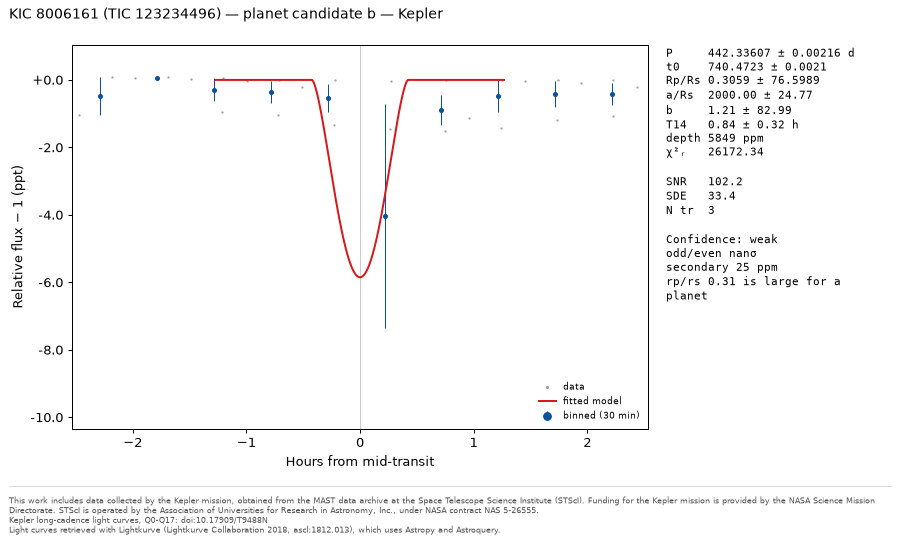
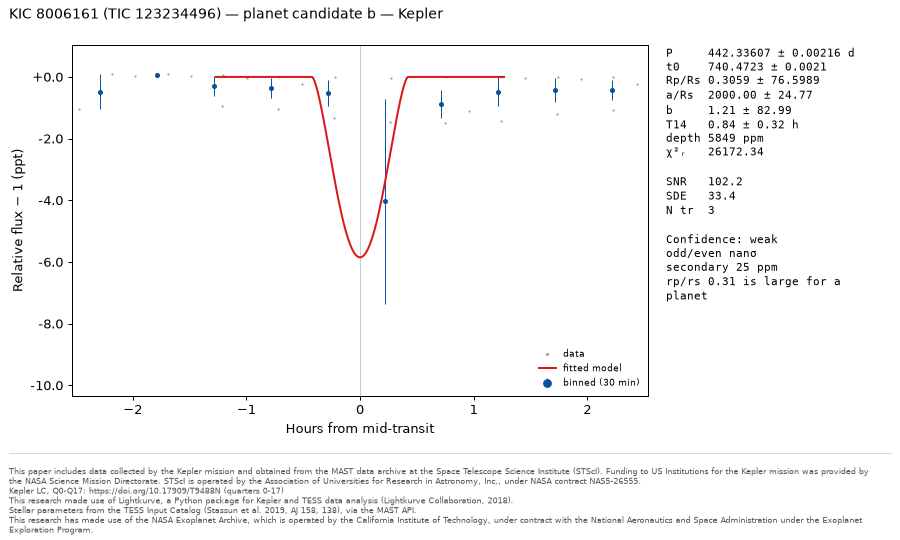
Republish the validation report with the current data credits
Reran the live validation over all sectors. The report now carries the MAST mission wording, https://doi.org links with sector ranges, and the TIC and Exoplanet Archive credits. Results are unchanged: 11/11 recovered, 1 spurious, 4 duo-transits. Retook the validation screenshot and corrected TIC_CREDIT's location in docs/CREDITS.md.

diff --git a/docs/validation/validation.md b/docs/validation/validation.md
@@ -1,6 +1,6 @@
 # Known-planet validation
 
-Run 2026-10-29 23:23 UTC (34 min) on **MAST** light curves, using all sectors / quarters.
+Run 2026-10-30 00:12 UTC (34 min) on **MAST** light curves, using all sectors / quarters.
 
 Published values: NASA Exoplanet Archive, retrieved 2026-10-29 (pscomppars for planets; pscomppars, the cumulative KOI table and the TOI table to check that the null stars have no published signal).
 
@@ -89,15 +89,15 @@ Candidates that match no published planet. *Spurious* ones passed vetting (weak 
 |---|---|---|---|---|
 | Kepler-10 | planet-host | Kepler 15 quarters, 51,973 points, 1,470 d baseline | 93 |  |
 | Kepler-7 | planet-host | Kepler 18 quarters, 65,263 points, 1,470 d baseline | 103 |  |
-| Kepler-2 | planet-host | Kepler 18 quarters, 65,283 points, 1,470 d baseline | 111 |  |
-| Kepler-22 | planet-host | Kepler 18 quarters, 65,262 points, 1,470 d baseline | 146 |  |
-| pi Men | planet-host | TESS SPOC 24 sectors, 393,701 points, 2,582 d baseline | 707 |  |
-| LHS 3844 | planet-host | TESS SPOC 11 sectors, 168,801 points, 2,879 d baseline | 147 |  |
+| Kepler-2 | planet-host | Kepler 18 quarters, 65,283 points, 1,470 d baseline | 110 |  |
+| Kepler-22 | planet-host | Kepler 18 quarters, 65,262 points, 1,470 d baseline | 145 |  |
+| pi Men | planet-host | TESS SPOC 24 sectors, 393,701 points, 2,582 d baseline | 698 |  |
+| LHS 3844 | planet-host | TESS SPOC 11 sectors, 168,801 points, 2,879 d baseline | 146 |  |
 | WASP-18 | planet-host | TESS SPOC 10 sectors, 151,222 points, 2,906 d baseline | 133 |  |
 | TOI-270 | planet-host | TESS SPOC 7 sectors, 137,828 points, 2,660 d baseline | 169 |  |
 | KIC 8006161 | null | Kepler 18 quarters, 65,262 points, 1,470 d baseline | 138 |  |
-| KIC 6106415 | null | Kepler 14 quarters, 50,642 points, 1,437 d baseline | 104 |  |
-| TIC 31410749 | null | TESS SPOC+TESS-SPOC 13 sectors, 143,305 points, 1,852 d baseline | 166 |  |
+| KIC 6106415 | null | Kepler 14 quarters, 50,642 points, 1,437 d baseline | 118 |  |
+| TIC 31410749 | null | TESS SPOC+TESS-SPOC 13 sectors, 143,305 points, 1,852 d baseline | 212 |  |
 
 ## Folded light curves
 
@@ -141,13 +141,20 @@ Candidates that match no published planet. *Spurious* ones passed vetting (weak 
 
 ## Data credits
 
-- This work includes data collected by the Kepler mission, obtained from the MAST data archive at the Space Telescope Science Institute (STScI). Funding for the Kepler mission is provided by the NASA Science Mission Directorate. STScI is operated by the Association of Universities for Research in Astronomy, Inc., under NASA contract NAS 5-26555.
-- Kepler long-cadence light curves, Q0-Q17: doi:10.17909/T9488N
-- Light curves retrieved with Lightkurve (Lightkurve Collaboration 2018, ascl:1812.013), which uses Astropy and Astroquery.
-- This work includes data collected by the TESS mission, obtained from the MAST data archive at the Space Telescope Science Institute (STScI). Funding for the TESS mission is provided by the NASA Science Mission Directorate. STScI is operated by the Association of Universities for Research in Astronomy, Inc., under NASA contract NAS 5-26555.
-- TESS SPOC light curves: doi:10.17909/t9-nmc8-f686
-- TESS-SPOC full-frame-image light curves: doi:10.17909/t9-wpz1-8s54
+- This paper includes data collected by the Kepler mission and obtained from the MAST data archive at the Space Telescope Science Institute (STScI). Funding to US Institutions for the Kepler mission was provided by the NASA Science Mission Directorate. STScI is operated by the Association of Universities for Research in Astronomy, Inc., under NASA contract NAS5-26555.
+- Kepler LC, Q0-Q17: https://doi.org/10.17909/T9488N (quarters 0-7, 9-11, 13-15, 17)
+- This research made use of Lightkurve, a Python package for Kepler and TESS data analysis (Lightkurve Collaboration, 2018).
+- Stellar parameters from the TESS Input Catalog (Stassun et al. 2019, AJ 158, 138), via the MAST API.
 - This research has made use of the NASA Exoplanet Archive, which is operated by the California Institute of Technology, under contract with the National Aeronautics and Space Administration under the Exoplanet Exploration Program.
+- Kepler LC, Q0-Q17: https://doi.org/10.17909/T9488N (quarters 0-17)
+- This paper includes data collected with the TESS mission, obtained from the MAST data archive at the Space Telescope Science Institute (STScI). Funding for US Institutions for the TESS mission is provided by the NASA Explorer Program. STScI is operated by the Association of Universities for Research in Astronomy, Inc., under NASA contract NAS5-26555.
+- TESS Light Curves - All Sectors: https://doi.org/10.17909/t9-nmc8-f686 (sectors 1, 4, 8, 11-13, 27-28, 31, 34, 38-39, 61-62, 64-68, 88-89, 93-95)
+- TESS Light Curves - All Sectors: https://doi.org/10.17909/t9-nmc8-f686 (sectors 1, 27-28, 67-68, 94-95, 101-104)
+- TESS Light Curves - All Sectors: https://doi.org/10.17909/t9-nmc8-f686 (sectors 2-3, 29-30, 69, 96, 103-106)
+- TESS Light Curves - All Sectors: https://doi.org/10.17909/t9-nmc8-f686 (sectors 3-5, 30, 32, 97-98)
+- Kepler LC, Q0-Q17: https://doi.org/10.17909/T9488N (quarters 0-4, 6-8, 10-12, 14-16)
+- TESS Light Curves - All Sectors: https://doi.org/10.17909/t9-nmc8-f686 (sectors 2, 6, 9, 12, 29, 36, 39, 61-62, 66-69)
+- TESS Light Curves From Full Frame Images ("TESS-SPOC"): https://doi.org/10.17909/t9-wpz1-8s54 (sectors 2, 6, 9, 12, 29, 36, 39, 61-62, 66-69)
 - Christiansen et al. 2025, The NASA Exoplanet Archive, PSJ: https://doi.org/10.3847/PSJ/ade3c2
 - Planetary Systems Composite Parameters Table: https://doi.org/10.26133/NEA13
 - Kepler Objects of Interest (KOI) Cumulative Table: https://doi.org/10.26133/NEA4

diff --git a/docs/CREDITS.md b/docs/CREDITS.md
@@ -51,7 +51,7 @@ For a paper covering several stars, combine their sector ranges.
 
 Star names are resolved, and stellar Teff, log g, mass and radius taken,
 through the MAST API's name lookup and TESS Input Catalog services.
-In code: `transitory.gui.credits_dialog.TIC_CREDIT`.
+In code: `transitory.catalog.tic.TIC_CREDIT`.
 
 - Stassun, K. G., et al. 2019, *The Revised TESS Input Catalog and Candidate
   Target List*, AJ 158, 138.
